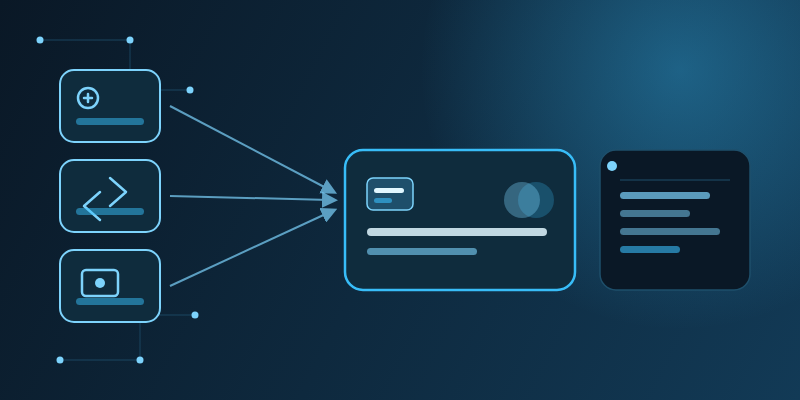
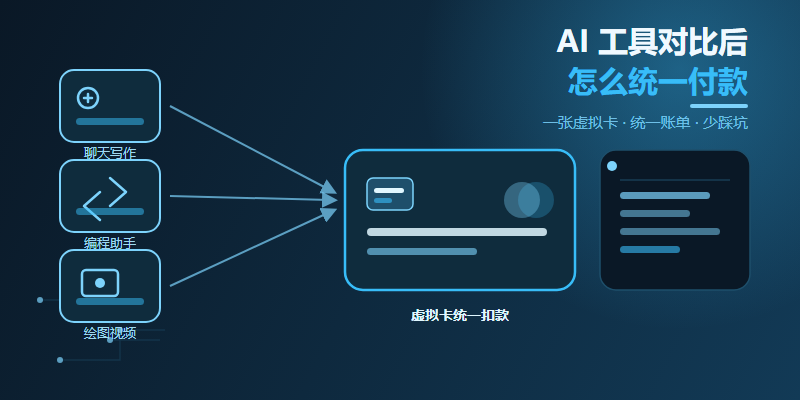
修改

diff --git a/en/articles/ai-application-scenarios-guide.html b/en/articles/ai-application-scenarios-guide.html
@@ -4,8 +4,8 @@
   <meta charset="utf-8">
   <script>(function(){try{var t=localStorage.getItem('theme');if(t==='dark'||(!t&&window.matchMedia('(prefers-color-scheme: dark)').matches)){document.documentElement.setAttribute('data-theme','dark');}}catch(e){}})();</script>
   <meta name="viewport" content="width=device-width, initial-scale=1">
-  <title>AI Use Cases in 2026: Writing, Coding, Image, Video, Search &amp; Voice Tool Costs</title>
-  <meta name="description" content="A full breakdown of the six major AI use case categories in 2026 — writing, coding, image, video, search, and voice — covering representative tools, real pricing structures, and how to pay with a virtual card.">
+  <title>AI Use Cases in 2026: Tools, Real Costs &amp; How to Pay</title>
+  <meta name="description" content="The six major AI use cases in 2026 — writing, coding, image, video, search and voice — with representative tools, real pricing, and how to pay by virtual card.">
   <meta name="robots" content="index, follow, max-image-preview:large">
   <meta name="author" content="ipfsWeb">
   <link rel="canonical" href="https://ponr.org/en/articles/ai-application-scenarios-guide.html">
@@ -15,16 +15,16 @@
   <meta property="og:locale" content="en_US">
   <meta property="og:type" content="article">
   <meta property="og:site_name" content="AI Access Guide">
-  <meta property="og:title" content="AI Use Cases in 2026: Writing, Coding, Image, Video, Search &amp; Voice Tool Costs">
-  <meta property="og:description" content="A full breakdown of the six major AI use case categories in 2026 — writing, coding, image, video, search, and voice — covering representative tools, real pricing structures, and how to pay with a virtual card.">
+  <meta property="og:title" content="AI Use Cases in 2026: Tools, Real Costs &amp; How to Pay">
+  <meta property="og:description" content="The six major AI use cases in 2026 — writing, coding, image, video, search and voice — with representative tools, real pricing, and how to pay by virtual card.">
   <meta property="og:url" content="https://ponr.org/en/articles/ai-application-scenarios-guide.html">
   <meta property="article:published_time" content="2026-08-11T12:50:25+08:00">
   <meta property="article:modified_time" content="2026-08-11T12:50:25+08:00">
   <meta property="article:author" content="ipfsWeb">
   <meta property="article:section" content="AI Subscriptions">
   <meta name="twitter:card" content="summary_large_image">
-  <meta name="twitter:title" content="AI Use Cases in 2026: Writing, Coding, Image, Video, Search &amp; Voice Tool Costs">
-  <meta name="twitter:description" content="A full breakdown of the six major AI use case categories in 2026 — writing, coding, image, video, search, and voice — covering representative tools, real pricing structures, and how to pay with a virtual card.">
+  <meta name="twitter:title" content="AI Use Cases in 2026: Tools, Real Costs &amp; How to Pay">
+  <meta name="twitter:description" content="The six major AI use cases in 2026 — writing, coding, image, video, search and voice — with representative tools, real pricing, and how to pay by virtual card.">
   <link rel="icon" href="/favicon.ico" sizes="48x48">
   <link rel="icon" type="image/svg+xml" href="/favicon.svg">
   <link rel="icon" type="image/png" sizes="96x96" href="/favicon-96x96.png">
@@ -47,12 +47,12 @@
     { "@type": "Person", "@id": "https://ponr.org/en/about.html#author", "name": "ipfsWeb", "url": "https://ponr.org/en/about.html#author", "sameAs": ["https://github.com/alive-worker"], "description": "15 years of full-stack development experience, focused on AI automation workflow research", "worksFor": { "@id": "https://ponr.org/en/#org" } },
     { "@type": "WebSite", "@id": "https://ponr.org/en/#website", "url": "https://ponr.org/en/", "name": "AI Access Guide", "inLanguage": "en", "publisher": { "@id": "https://ponr.org/en/#org" }, "potentialAction": { "@type": "SearchAction", "target": { "@type": "EntryPoint", "urlTemplate": "https://ponr.org/en/articles.html?q={search_term_string}" }, "query-input": "required name=search_term_string" } },
     { "@type": "ImageObject", "@id": "https://ponr.org/en/articles/ai-application-scenarios-guide.html#primaryimage", "url": "https://ponr.org/img/cover-ai-application-scenarios.png", "width": 800, "height": 400 },
-    { "@type": "WebPage", "@id": "https://ponr.org/en/articles/ai-application-scenarios-guide.html#webpage", "url": "https://ponr.org/en/articles/ai-application-scenarios-guide.html", "name": "AI Use Cases in 2026: Writing, Coding, Image, Video, Search & Voice Tool Costs", "isPartOf": { "@id": "https://ponr.org/en/#website" }, "primaryImageOfPage": { "@id": "https://ponr.org/en/articles/ai-application-scenarios-guide.html#primaryimage" }, "breadcrumb": { "@id": "https://ponr.org/en/articles/ai-application-scenarios-guide.html#breadcrumb" }, "inLanguage": "en" },
+    { "@type": "WebPage", "@id": "https://ponr.org/en/articles/ai-application-scenarios-guide.html#webpage", "url": "https://ponr.org/en/articles/ai-application-scenarios-guide.html", "name": "AI Use Cases in 2026: Tools, Real Costs & How to Pay", "isPartOf": { "@id": "https://ponr.org/en/#website" }, "primaryImageOfPage": { "@id": "https://ponr.org/en/articles/ai-application-scenarios-guide.html#primaryimage" }, "breadcrumb": { "@id": "https://ponr.org/en/articles/ai-application-scenarios-guide.html#breadcrumb" }, "inLanguage": "en" },
     { "@type": "BreadcrumbList", "@id": "https://ponr.org/en/articles/ai-application-scenarios-guide.html#breadcrumb", "itemListElement": [
         { "@type": "ListItem", "position": 1, "name": "Home", "item": "https://ponr.org/en/" },
-        { "@type": "ListItem", "position": 2, "name": "AI Use Cases in 2026: Writing, Coding, Image, Video, Search & Voice Tool Costs", "item": "https://ponr.org/en/articles/ai-application-scenarios-guide.html" }
+        { "@type": "ListItem", "position": 2, "name": "AI Use Cases in 2026: Tools, Real Costs & How to Pay", "item": "https://ponr.org/en/articles/ai-application-scenarios-guide.html" }
     ] },
-    { "@type": "Article", "headline": "AI Use Cases in 2026: Writing, Coding, Image, Video, Search & Voice Tool Costs", "description": "A full breakdown of the six major AI use case categories in 2026 — writing, coding, image, video, search, and voice — covering representative tools, real pricing structures, and how to pay with a virtual card.", "image": "https://ponr.org/img/cover-ai-application-scenarios.png", "author": { "@id": "https://ponr.org/en/about.html#author" }, "publisher": { "@id": "https://ponr.org/en/#org" }, "datePublished": "2026-08-11T12:50:25+08:00", "dateModified": "2026-08-11T12:50:25+08:00", "inLanguage": "en", "articleSection": "AI Subscriptions", "keywords": ["AI use cases", "AI tool pricing", "virtual card", "AI subscriptions", "writing AI", "coding AI", "image generation"], "mainEntityOfPage": { "@id": "https://ponr.org/en/articles/ai-application-scenarios-guide.html#webpage" }, "isPartOf": { "@id": "https://ponr.org/en/#website" } }
+    { "@type": "Article", "headline": "AI Use Cases in 2026: Tools, Real Costs & How to Pay", "description": "The six major AI use cases in 2026 — writing, coding, image, video, search and voice — with representative tools, real pricing, and how to pay by virtual card.", "image": "https://ponr.org/img/cover-ai-application-scenarios.png", "author": { "@id": "https://ponr.org/en/about.html#author" }, "publisher": { "@id": "https://ponr.org/en/#org" }, "datePublished": "2026-08-11T12:50:25+08:00", "dateModified": "2026-08-11T12:50:25+08:00", "inLanguage": "en", "articleSection": "AI Subscriptions", "keywords": ["AI use cases", "AI tool pricing", "virtual card", "AI subscriptions", "writing AI", "coding AI", "image generation"], "mainEntityOfPage": { "@id": "https://ponr.org/en/articles/ai-application-scenarios-guide.html#webpage" }, "isPartOf": { "@id": "https://ponr.org/en/#website" } }
   ]
 }</script>
 </head>
@@ -82,7 +82,7 @@
     <main class="main" id="main" tabindex="-1">
       <article class="article-shell">
         <header class="article-head">
-          <h1>AI Use Cases in 2026: Writing, Coding, Image, Video, Search &amp; Voice Tool Costs</h1>
+          <h1>AI Use Cases in 2026: Tools, Real Costs &amp; How to Pay</h1>
           <p class="article-summary">AI tools have expanded well beyond chatbots into every corner of knowledge work and creative production. But which tool fits which scenario, and what does each actually cost? This guide maps the six major AI use case categories — writing, coding, image generation, video, search, and voice — with real pricing structures and how to pay for all of them with one virtual card.</p>
           <p class="article-meta"><span><a href="/en/about.html#author">ipfsWeb</a></span> · AI Access Guide · Published <time datetime="2026-08-11T12:50:25+08:00">2026-08-11 12:50:25</time></p>
         </header>

diff --git a/articles/ai-application-scenarios-guide.html b/articles/ai-application-scenarios-guide.html
@@ -5,7 +5,7 @@
   <script>(function(){try{var t=localStorage.getItem('theme');if(t==='dark'||(!t&&window.matchMedia('(prefers-color-scheme: dark)').matches)){document.documentElement.setAttribute('data-theme','dark');}}catch(e){}})();</script>
   <meta name="viewport" content="width=device-width, initial-scale=1">
   <title>2026年AI应用场景全览：写作/编程/绘图/视频/搜索/语音工具费用与支付实操</title>
-  <meta name="description" content="从写作、编程、绘图到视频、搜索、语音，梳理2026年六大主流AI应用场景的代表工具、真实费用结构与虚拟卡统一支付方式。">
+  <meta name="description" content="从写作、编程、绘图到视频、搜索、语音，横向梳理2026年六大主流AI应用场景的代表工具、真实费用结构，以及怎么用一张虚拟信用卡统一支付所有AI工具账单。">
   <meta name="robots" content="index, follow, max-image-preview:large">
   <meta name="author" content="ipfsWeb">
   <link rel="canonical" href="https://ponr.org/articles/ai-application-scenarios-guide.html">
@@ -16,7 +16,7 @@
   <meta property="og:type" content="article">
   <meta property="og:site_name" content="AI服务指南">
   <meta property="og:title" content="2026年AI应用场景全览：写作/编程/绘图/视频/搜索/语音工具费用与支付实操">
-  <meta property="og:description" content="从写作、编程、绘图到视频、搜索、语音，梳理2026年六大主流AI应用场景的代表工具、真实费用结构与虚拟卡统一支付方式。">
+  <meta property="og:description" content="从写作、编程、绘图到视频、搜索、语音，横向梳理2026年六大主流AI应用场景的代表工具、真实费用结构，以及怎么用一张虚拟信用卡统一支付所有AI工具账单。">
   <meta property="og:url" content="https://ponr.org/articles/ai-application-scenarios-guide.html">
   <meta property="article:published_time" content="2026-08-11T12:50:25+08:00">
   <meta property="article:modified_time" content="2026-08-11T12:50:25+08:00">
@@ -24,7 +24,7 @@
   <meta property="article:section" content="海外AI订阅">
   <meta name="twitter:card" content="summary_large_image">
   <meta name="twitter:title" content="2026年AI应用场景全览：写作/编程/绘图/视频/搜索/语音工具费用与支付实操">
-  <meta name="twitter:description" content="从写作、编程、绘图到视频、搜索、语音，梳理2026年六大主流AI应用场景的代表工具、真实费用结构与虚拟卡统一支付方式。">
+  <meta name="twitter:description" content="从写作、编程、绘图到视频、搜索、语音，横向梳理2026年六大主流AI应用场景的代表工具、真实费用结构，以及怎么用一张虚拟信用卡统一支付所有AI工具账单。">
   <link rel="icon" href="/favicon.ico" sizes="48x48">
   <link rel="icon" type="image/svg+xml" href="/favicon.svg">
   <link rel="icon" type="image/png" sizes="96x96" href="/favicon-96x96.png">
@@ -52,7 +52,7 @@
         { "@type": "ListItem", "position": 1, "name": "首页", "item": "https://ponr.org/" },
         { "@type": "ListItem", "position": 2, "name": "2026年AI应用场景全览：写作/编程/绘图/视频/搜索/语音工具费用与支付实操", "item": "https://ponr.org/articles/ai-application-scenarios-guide.html" }
     ] },
-    { "@type": "Article", "headline": "2026年AI应用场景全览：写作/编程/绘图/视频/搜索/语音工具费用与支付实操", "description": "从写作、编程、绘图到视频、搜索、语音，梳理2026年六大主流AI应用场景的代表工具、真实费用结构与虚拟卡统一支付方式。", "image": "https://ponr.org/img/cover-ai-application-scenarios.png", "author": { "@id": "https://ponr.org/about.html#author" }, "publisher": { "@id": "https://ponr.org/#org" }, "datePublished": "2026-08-11T12:50:25+08:00", "dateModified": "2026-08-11T12:50:25+08:00", "inLanguage": "zh-CN", "articleSection": "海外AI订阅", "keywords": ["AI应用场景", "AI工具费用", "虚拟信用卡", "AI订阅支付", "写作AI", "编程AI", "绘图AI", "视频AI"], "mainEntityOfPage": { "@id": "https://ponr.org/articles/ai-application-scenarios-guide.html#webpage" }, "isPartOf": { "@id": "https://ponr.org/#website" } }
+    { "@type": "Article", "headline": "2026年AI应用场景全览：写作/编程/绘图/视频/搜索/语音工具费用与支付实操", "description": "从写作、编程、绘图到视频、搜索、语音，横向梳理2026年六大主流AI应用场景的代表工具、真实费用结构，以及怎么用一张虚拟信用卡统一支付所有AI工具账单。", "image": "https://ponr.org/img/cover-ai-application-scenarios.png", "author": { "@id": "https://ponr.org/about.html#author" }, "publisher": { "@id": "https://ponr.org/#org" }, "datePublished": "2026-08-11T12:50:25+08:00", "dateModified": "2026-08-11T12:50:25+08:00", "inLanguage": "zh-CN", "articleSection": "海外AI订阅", "keywords": ["AI应用场景", "AI工具费用", "虚拟信用卡", "AI订阅支付", "写作AI", "编程AI", "绘图AI", "视频AI"], "mainEntityOfPage": { "@id": "https://ponr.org/articles/ai-application-scenarios-guide.html#webpage" }, "isPartOf": { "@id": "https://ponr.org/#website" } }
   ]
 }</script>
 </head>

diff --git a/en/index.html b/en/index.html
@@ -44,7 +44,7 @@
     { "@type": "ImageObject", "@id": "https://ponr.org/en/#primaryimage", "url": "https://ponr.org/og/og-home-en.png", "width": 1200, "height": 630 },
     { "@type": "CollectionPage", "@id": "https://ponr.org/en/#webpage", "url": "https://ponr.org/en/", "name": "AI Access Guide", "isPartOf": { "@id": "https://ponr.org/en/#website" }, "about": { "@id": "https://ponr.org/en/#org" }, "primaryImageOfPage": { "@id": "https://ponr.org/en/#primaryimage" }, "inLanguage": "en" },
     { "@type": "ItemList", "itemListElement": [
-        { "@type": "ListItem", "position": 1, "name": "AI Use Cases in 2026: Writing, Coding, Image, Video, Search & Voice Tool Costs", "url": "https://ponr.org/en/articles/ai-application-scenarios-guide.html" },
+        { "@type": "ListItem", "position": 1, "name": "AI Use Cases in 2026: Tools, Real Costs & How to Pay", "url": "https://ponr.org/en/articles/ai-application-scenarios-guide.html" },
         { "@type": "ListItem", "position": 2, "name": "Comparing AI Tools? Here's How to Pay for Them All", "url": "https://ponr.org/en/articles/ai-tool-subscription-compare-guide.html" },
         { "@type": "ListItem", "position": 3, "name": "Can AI Tutors Actually Close the Education Gap?", "url": "https://ponr.org/en/articles/ai-education-equity.html" },
         { "@type": "ListItem", "position": 4, "name": "Does AI Companionship Actually Serve Humanity?", "url": "https://ponr.org/en/articles/ai-companionship-trust.html" },
@@ -154,7 +154,7 @@
             <span class="featured-label">— FEATURED</span>
             <span class="featured-title-row">
               <span class="archive-tag archive-tag--teal">Basics</span>
-              <span class="featured-title">AI Use Cases in 2026: Writing, Coding, Image, Video, Search &amp; Voice Tool Costs</span>
+              <span class="featured-title">AI Use Cases in 2026: Tools, Real Costs &amp; How to Pay</span>
             </span>
             <span class="featured-desc">From writing and coding to image, video, search and voice — a horizontal map of the six major AI use cases, their representative tools, real pricing structures, and how to pay for all of them with one virtual card.</span>
             <span class="featured-meta">
@@ -178,7 +178,7 @@
             <a class="post-card-cover-link" href="/en/articles/ai-application-scenarios-guide.html" tabindex="-1" aria-hidden="true"><img class="post-card-cover" src="/img/cover-ai-application-scenarios.svg" width="600" height="300" alt="AI use cases 2026 cover image" loading="lazy"></a>
             <div class="post-card-body">
               <div class="post-card-tags"><span class="archive-tag archive-tag--teal">Basics</span></div>
-              <h3 class="post-card-title"><a href="/en/articles/ai-application-scenarios-guide.html">AI Use Cases in 2026: Writing, Coding, Image, Video, Search &amp; Voice Tool Costs</a></h3>
+              <h3 class="post-card-title"><a href="/en/articles/ai-application-scenarios-guide.html">AI Use Cases in 2026: Tools, Real Costs &amp; How to Pay</a></h3>
               <p class="post-card-desc">From writing and coding to image, video, search and voice — a horizontal map of the six major AI use cases, their representative tools, real pricing structures, and how to pay for all of them with one virtual card.</p>
               <div class="post-card-meta">
                 <time datetime="2026-08-11T12:50:25+08:00">2026-08-11 12:50:25</time>

diff --git a/en/articles.html b/en/articles.html
@@ -42,7 +42,7 @@
     { "@type": "WebSite", "@id": "https://ponr.org/en/#website", "url": "https://ponr.org/en/", "name": "AI Access Guide", "inLanguage": "en", "publisher": { "@id": "https://ponr.org/en/#org" }, "potentialAction": { "@type": "SearchAction", "target": { "@type": "EntryPoint", "urlTemplate": "https://ponr.org/en/articles.html?q={search_term_string}" }, "query-input": "required name=search_term_string" } },
     { "@type": "CollectionPage", "@id": "https://ponr.org/en/articles.html#webpage", "url": "https://ponr.org/en/articles.html", "name": "All Articles - AI Access Guide", "isPartOf": { "@id": "https://ponr.org/en/#website" }, "inLanguage": "en" },
     { "@type": "ItemList", "itemListElement": [
-        { "@type": "ListItem", "position": 1, "name": "AI Use Cases in 2026: Writing, Coding, Image, Video, Search & Voice Tool Costs", "url": "https://ponr.org/en/articles/ai-application-scenarios-guide.html" },
+        { "@type": "ListItem", "position": 1, "name": "AI Use Cases in 2026: Tools, Real Costs & How to Pay", "url": "https://ponr.org/en/articles/ai-application-scenarios-guide.html" },
         { "@type": "ListItem", "position": 2, "name": "Comparing AI Tools? Here's How to Pay for Them All", "url": "https://ponr.org/en/articles/ai-tool-subscription-compare-guide.html" },
         { "@type": "ListItem", "position": 3, "name": "Can AI Tutors Actually Close the Education Gap?", "url": "https://ponr.org/en/articles/ai-education-equity.html" },
         { "@type": "ListItem", "position": 4, "name": "Does AI Companionship Actually Serve Humanity?", "url": "https://ponr.org/en/articles/ai-companionship-trust.html" },
@@ -144,7 +144,7 @@
         <li class="archive-item" data-topic="basics">
           <a href="/en/articles/ai-application-scenarios-guide.html">
             <span class="archive-tag archive-tag--teal" aria-hidden="true">Basics</span>
-            <span class="archive-title">AI Use Cases in 2026: Writing, Coding, Image, Video, Search & Voice Tool Costs</span>
+            <span class="archive-title">AI Use Cases in 2026: Tools, Real Costs & How to Pay</span>
             <span class="archive-date"><svg class="side-cal" width="12" height="12" viewBox="0 0 24 24" fill="none" stroke="currentColor" stroke-width="2" stroke-linecap="round" stroke-linejoin="round" aria-hidden="true"><rect x="3" y="5" width="18" height="16" rx="2"></rect><path d="M3 10h18M8 3v4M16 3v4"></path></svg><time datetime="2026-08-11T12:50:25+08:00">2026-08-11 12:50:25</time></span>
           </a>
         </li>

diff --git a/en/articles/subscription-guide.html b/en/articles/subscription-guide.html
@@ -151,7 +151,7 @@
         <aside class="related" aria-label="Related articles">
           <h2>Related Articles</h2>
           <ul>
-          <li><a href="/en/articles/ai-application-scenarios-guide.html">AI Use Cases in 2026: Writing, Coding, Image, Video, Search &amp; Voice Tool Costs</a></li>
+          <li><a href="/en/articles/ai-application-scenarios-guide.html">AI Use Cases in 2026: Tools, Real Costs &amp; How to Pay</a></li>
           <li><a href="/en/articles/family-plan-guide.html">Family &amp; Shared Plans for AI Subscriptions: A Practical Guide</a></li>
           <li><a href="/en/articles/student-discount-guide.html">Student &amp; Education Discounts for AI Subscriptions: Verification Guide</a></li>
           <li><a href="/en/articles/network-region-check.html">Network &amp; Region Check Before You Subscribe: Stable Connections, Consistent Billing Regions</a></li>

diff --git a/en/articles/ai-tool-subscription-compare-guide.html b/en/articles/ai-tool-subscription-compare-guide.html
@@ -144,7 +144,7 @@
         <aside class="related" aria-label="Related articles">
           <h2>Related articles</h2>
           <ul>
-          <li><a href="/en/articles/ai-application-scenarios-guide.html">AI Use Cases in 2026: Writing, Coding, Image, Video, Search &amp; Voice Tool Costs</a></li>
+          <li><a href="/en/articles/ai-application-scenarios-guide.html">AI Use Cases in 2026: Tools, Real Costs &amp; How to Pay</a></li>
           <li><a href="/en/articles/virtual-card-solution-guide.html">The Virtual Card Payment Solution for AI Subscriptions</a></li>
           <li><a href="/en/articles/payment-methods-guide.html">Cards, Virtual Cards, or Stablecoins: Comparing Payment Paths for AI Subscriptions</a></li>
           <li><a href="/en/articles/ai-service-types-guide.html">Beyond Chatbots: AI Coding, Design &amp; Video Tools</a></li>

diff --git a/en/articles/ai-service-types-guide.html b/en/articles/ai-service-types-guide.html
@@ -150,7 +150,7 @@
         <aside class="related" aria-label="Related articles">
           <h2>Related articles</h2>
           <ul>
-          <li><a href="/en/articles/ai-application-scenarios-guide.html">AI Use Cases in 2026: Writing, Coding, Image, Video, Search &amp; Voice Tool Costs</a></li>
+          <li><a href="/en/articles/ai-application-scenarios-guide.html">AI Use Cases in 2026: Tools, Real Costs &amp; How to Pay</a></li>
           <li><a href="/en/articles/voice-music-billing-guide.html">ElevenLabs vs Suno: AI Voice and Music Subscription Costs</a></li>
           <li><a href="/en/articles/subscription-guide.html">Complete Guide to Subscribing to ChatGPT &amp; Claude</a></li>
           <li><a href="/en/articles/tool-selection-guide.html">Best Tools for Overseas AI Subscriptions (2026)</a></li>
